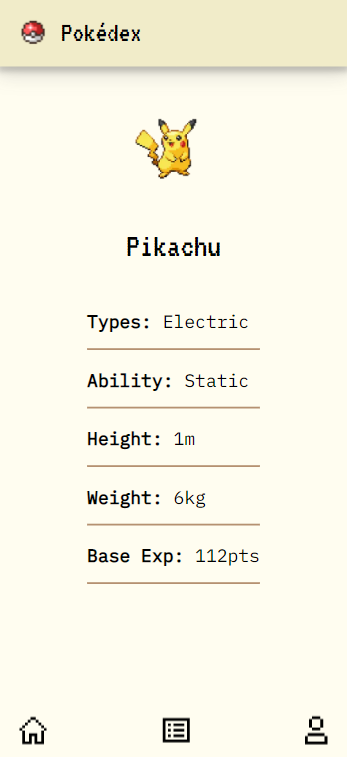
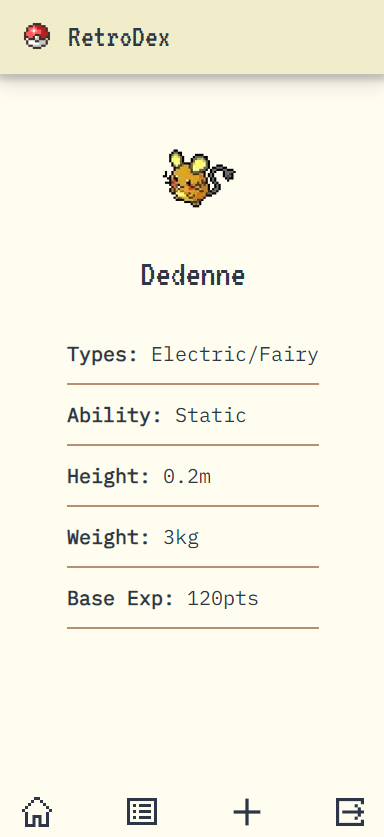
Update README.md

diff --git a/README.md b/README.md
@@ -1,17 +1,16 @@
-## **POKÉDEX**
+## **RetroDex**
 
-Pokédex is a web CRUD application with a toy-like retro style, that allows users to create and delete their own Pokémon, view a total list of Pokémon on the app, and view detailed information for each one. The application uses modern technologies such as Next.js, Typescript and Redux Toolkit for state management. It is deployed on Netlify for easy access by users. It is covered with a 100% by tests using Jest and React Testing Library
+RetroDex is a web CRUD application with a toy-like retro style, that allows users to create and delete their own Pokémon, view a total list of Pokémon on the app, and view detailed information for each one. The application uses modern technologies such as Next.js, Typescript and Redux Toolkit for state management. It is deployed on Netlify for easy access by users. It is covered with a 100% by tests using Jest and React Testing Library
 
-Overall, Pokédex is an efficient and user-friendly web application that is made for video game and Pokémon enthusiasts.
+Overall, RetroDex is an efficient and user-friendly web application that is made for video game and Pokémon enthusiasts.
 
-[Visit Pokedex](https://custom-pokedex-next.netlify.app/)
+[Visit RetroDex](https://custom-pokedex-next.netlify.app/)
 
 ![Login and register](resources/screenshots/login.png)
 ![Home and map](resources/screenshots/home.png)
 ![Detail](resources/screenshots/detail.png)
 ![Create Form](resources/screenshots/createForm1.png)
 ![Create Form](resources/screenshots/createForm2.png)
-![Your Pokemon](resources/screenshots/your-pokemon.png)
 
 ### **FEATURES**
 
@@ -41,21 +40,18 @@ Overall, Pokédex is an efficient and user-friendly web application that is made
 
 To use this app, you'll need to have the following tool installed:
 
-- **[Node.js](https://nodejs.org/en/)**
+**[Node.js](https://nodejs.org/en/)**
 
 Once installed, you can clone this repository and install all needed dependencies by using the following commands:
 
 ```
 git clone
-
 ```
 
 On your code editor:
 
 ```
-
 npm install
-
 ```
 
 You can start the development server by running **`npm run dev`** and visiting **`http://localhost:3000/`** in your web browser.
